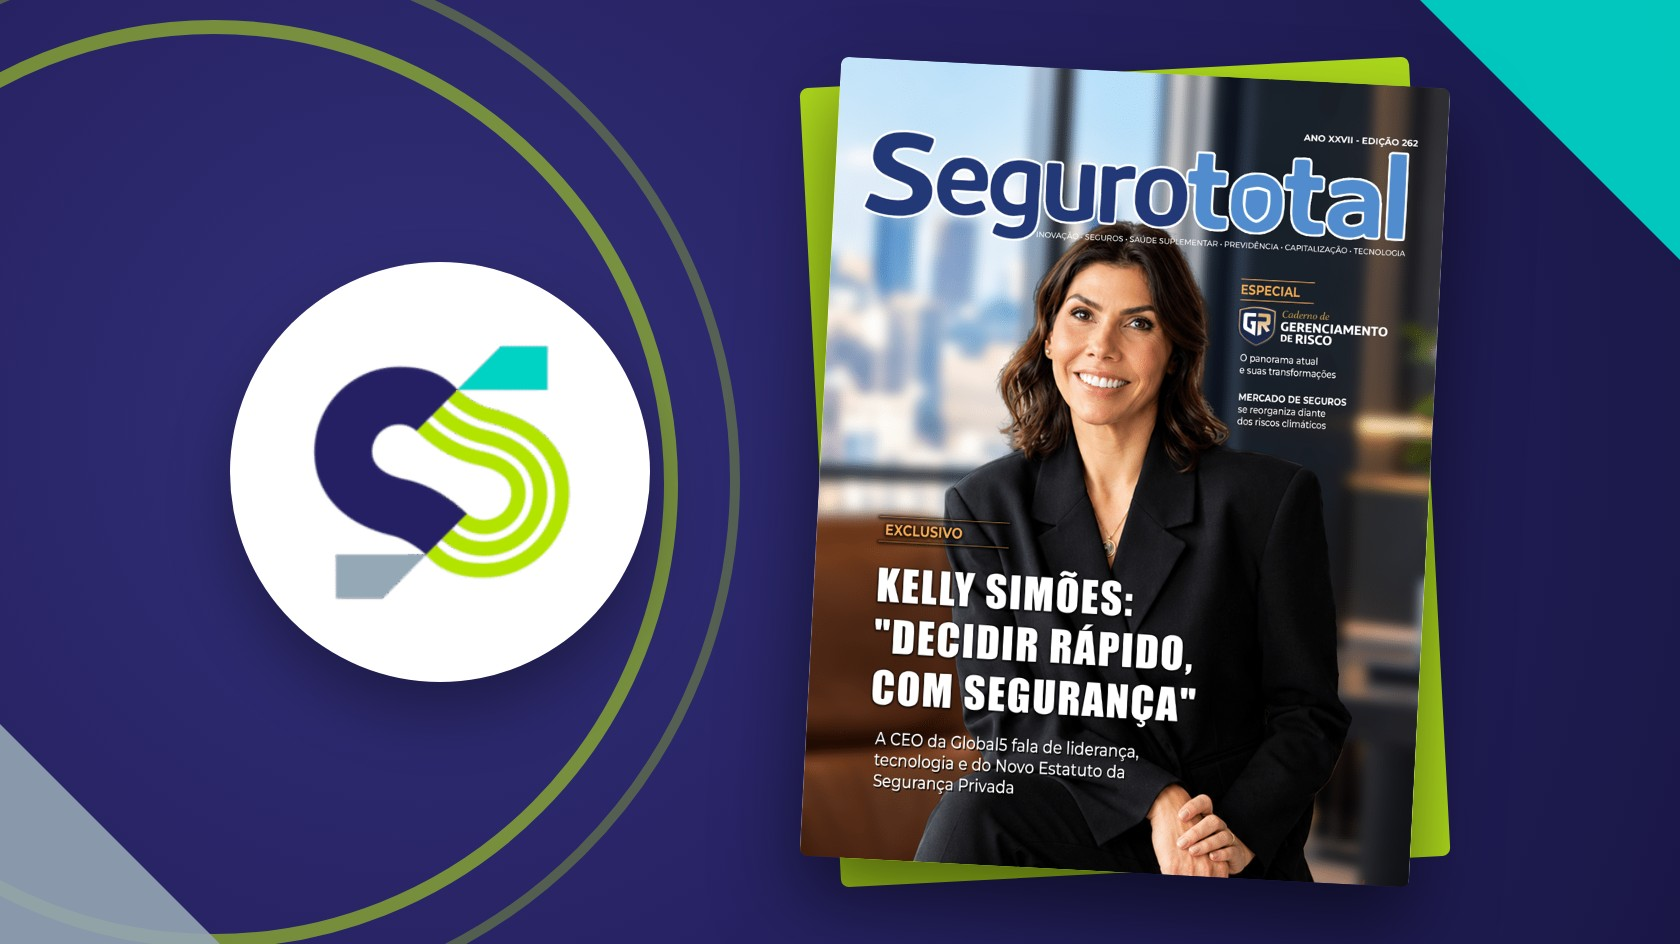
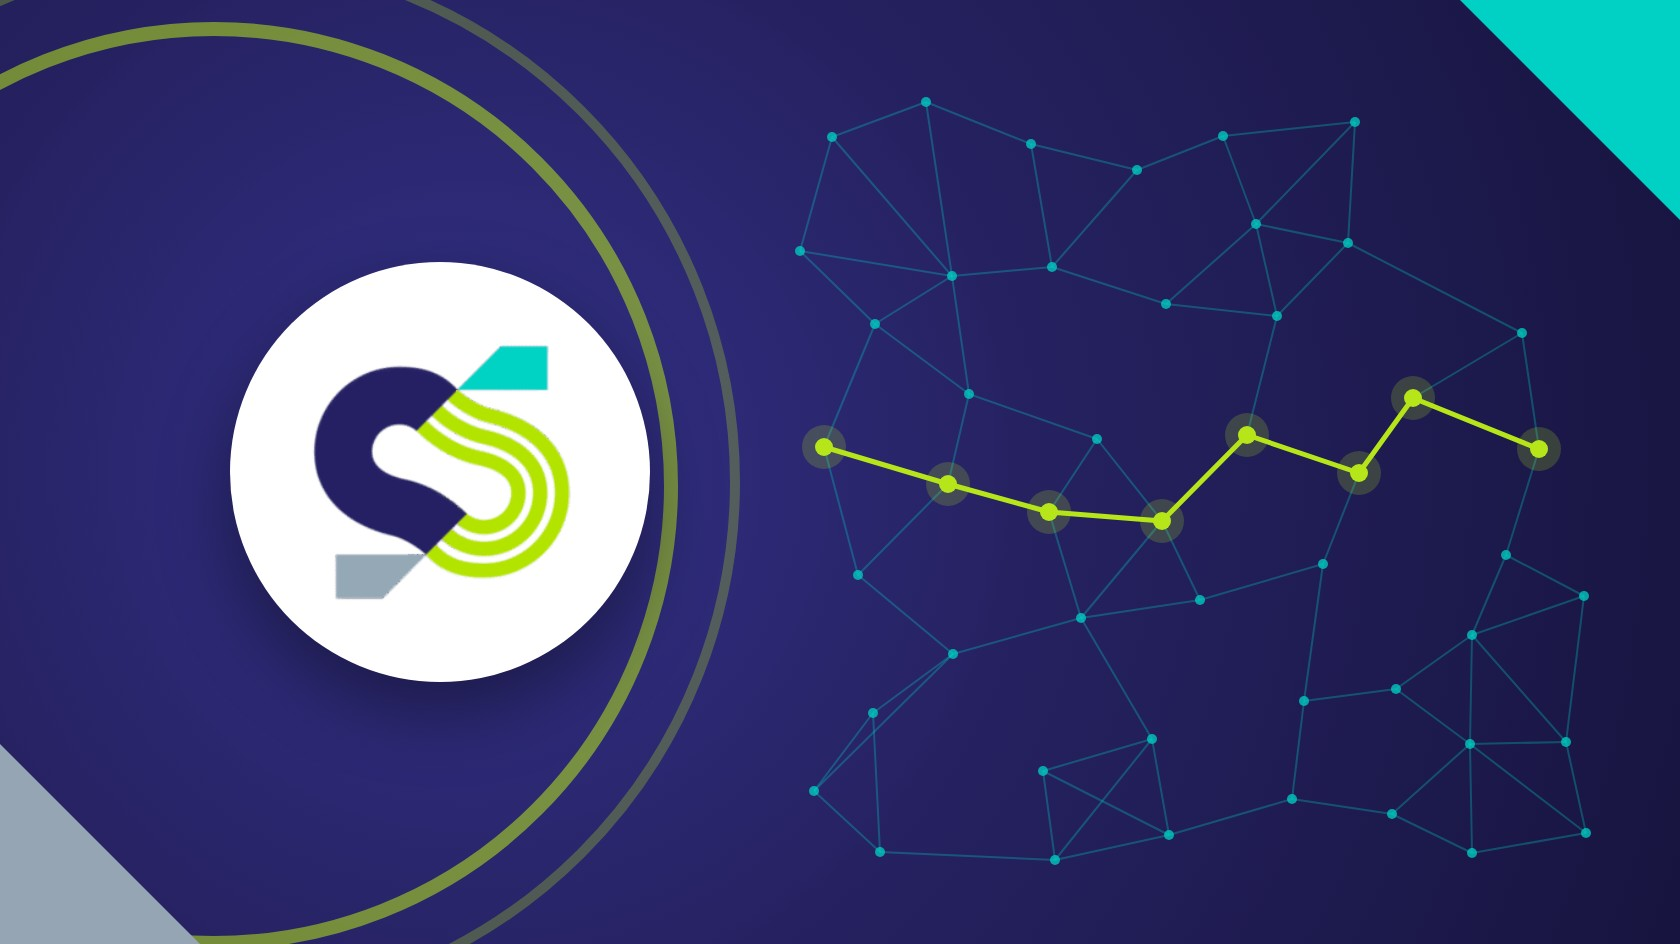
Global5: imagem de destaque sem a capa da revista
Claude-Session: https://claude.ai/code/session_018cqCBm7fiRVnAtNUZyj8yS

diff --git a/clientes/global5/blogs/revista-seguro-total/Blog-Global5-Capa-Revista-Seguro-Total.md b/clientes/global5/blogs/revista-seguro-total/Blog-Global5-Capa-Revista-Seguro-Total.md
@@ -90,7 +90,7 @@ A entrevista na íntegra e todos os conteúdos da edição 262 estão disponíve
 
 [Acesse a publicação original na Revista Seguro Total](https://revistasegurototal.com.br/2026/10/01/revista-seguro-total-riscos-inovacao-seguranca/)
 
-*Crédito: entrevista e informações publicadas pela Revista Seguro Total, edição 262. Imagem de capa reproduzida da publicação.*
+*Crédito: entrevista e informações publicadas pela Revista Seguro Total, edição 262.*
 
 Quer conhecer de perto a estrutura de gerenciamento de riscos da Global5? Converse com um especialista pelo (41) 98748-3673 ou acesse [www.global5.com.br](https://www.global5.com.br).
 
@@ -110,7 +110,7 @@ Quer conhecer de perto a estrutura de gerenciamento de riscos da Global5? Conver
 
 **Imagem de destaque:** Destaque-Global5-Revista-Seguro-Total.jpg (1680 x 944)
 
-**Texto alternativo da imagem:** Logo da Global5 ao lado da capa da edição 262 da Revista Seguro Total com Kelly Simões
+**Texto alternativo da imagem:** Logo da Global5 sobre fundo azul com rede de pontos conectados representando monitoramento e inteligência de dados
 
 **Links internos:** Blog 1 (O que é gerenciamento de risco no transporte de cargas) no trecho sobre a Torre de Controle; Blog 4 (Análise cadastral de motoristas e veículos), quando publicado, no trecho sobre tecnologia própria.
 
